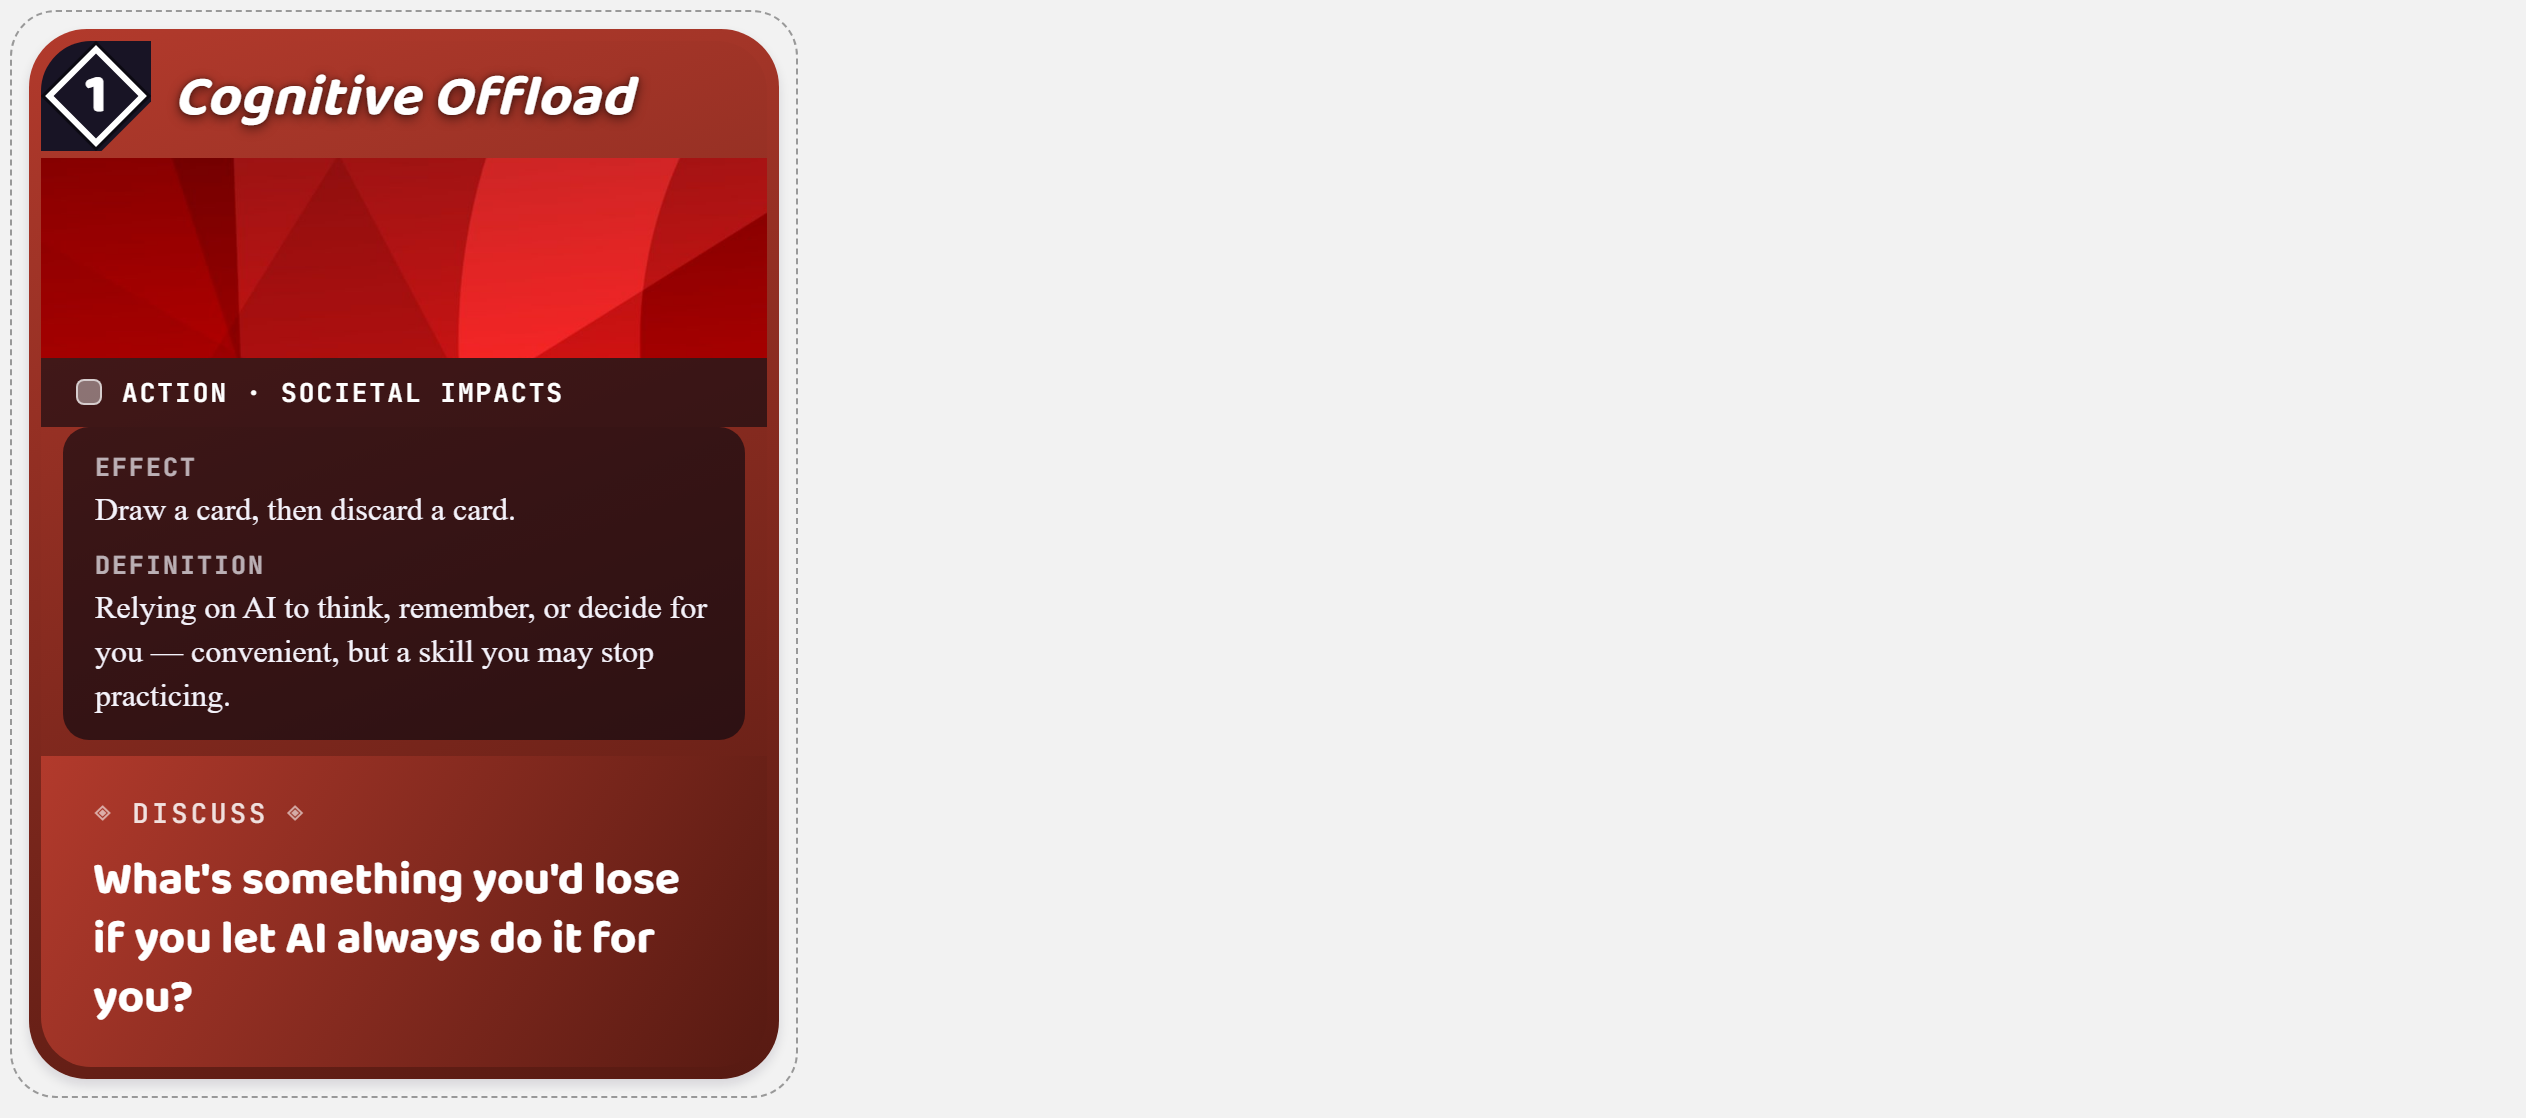
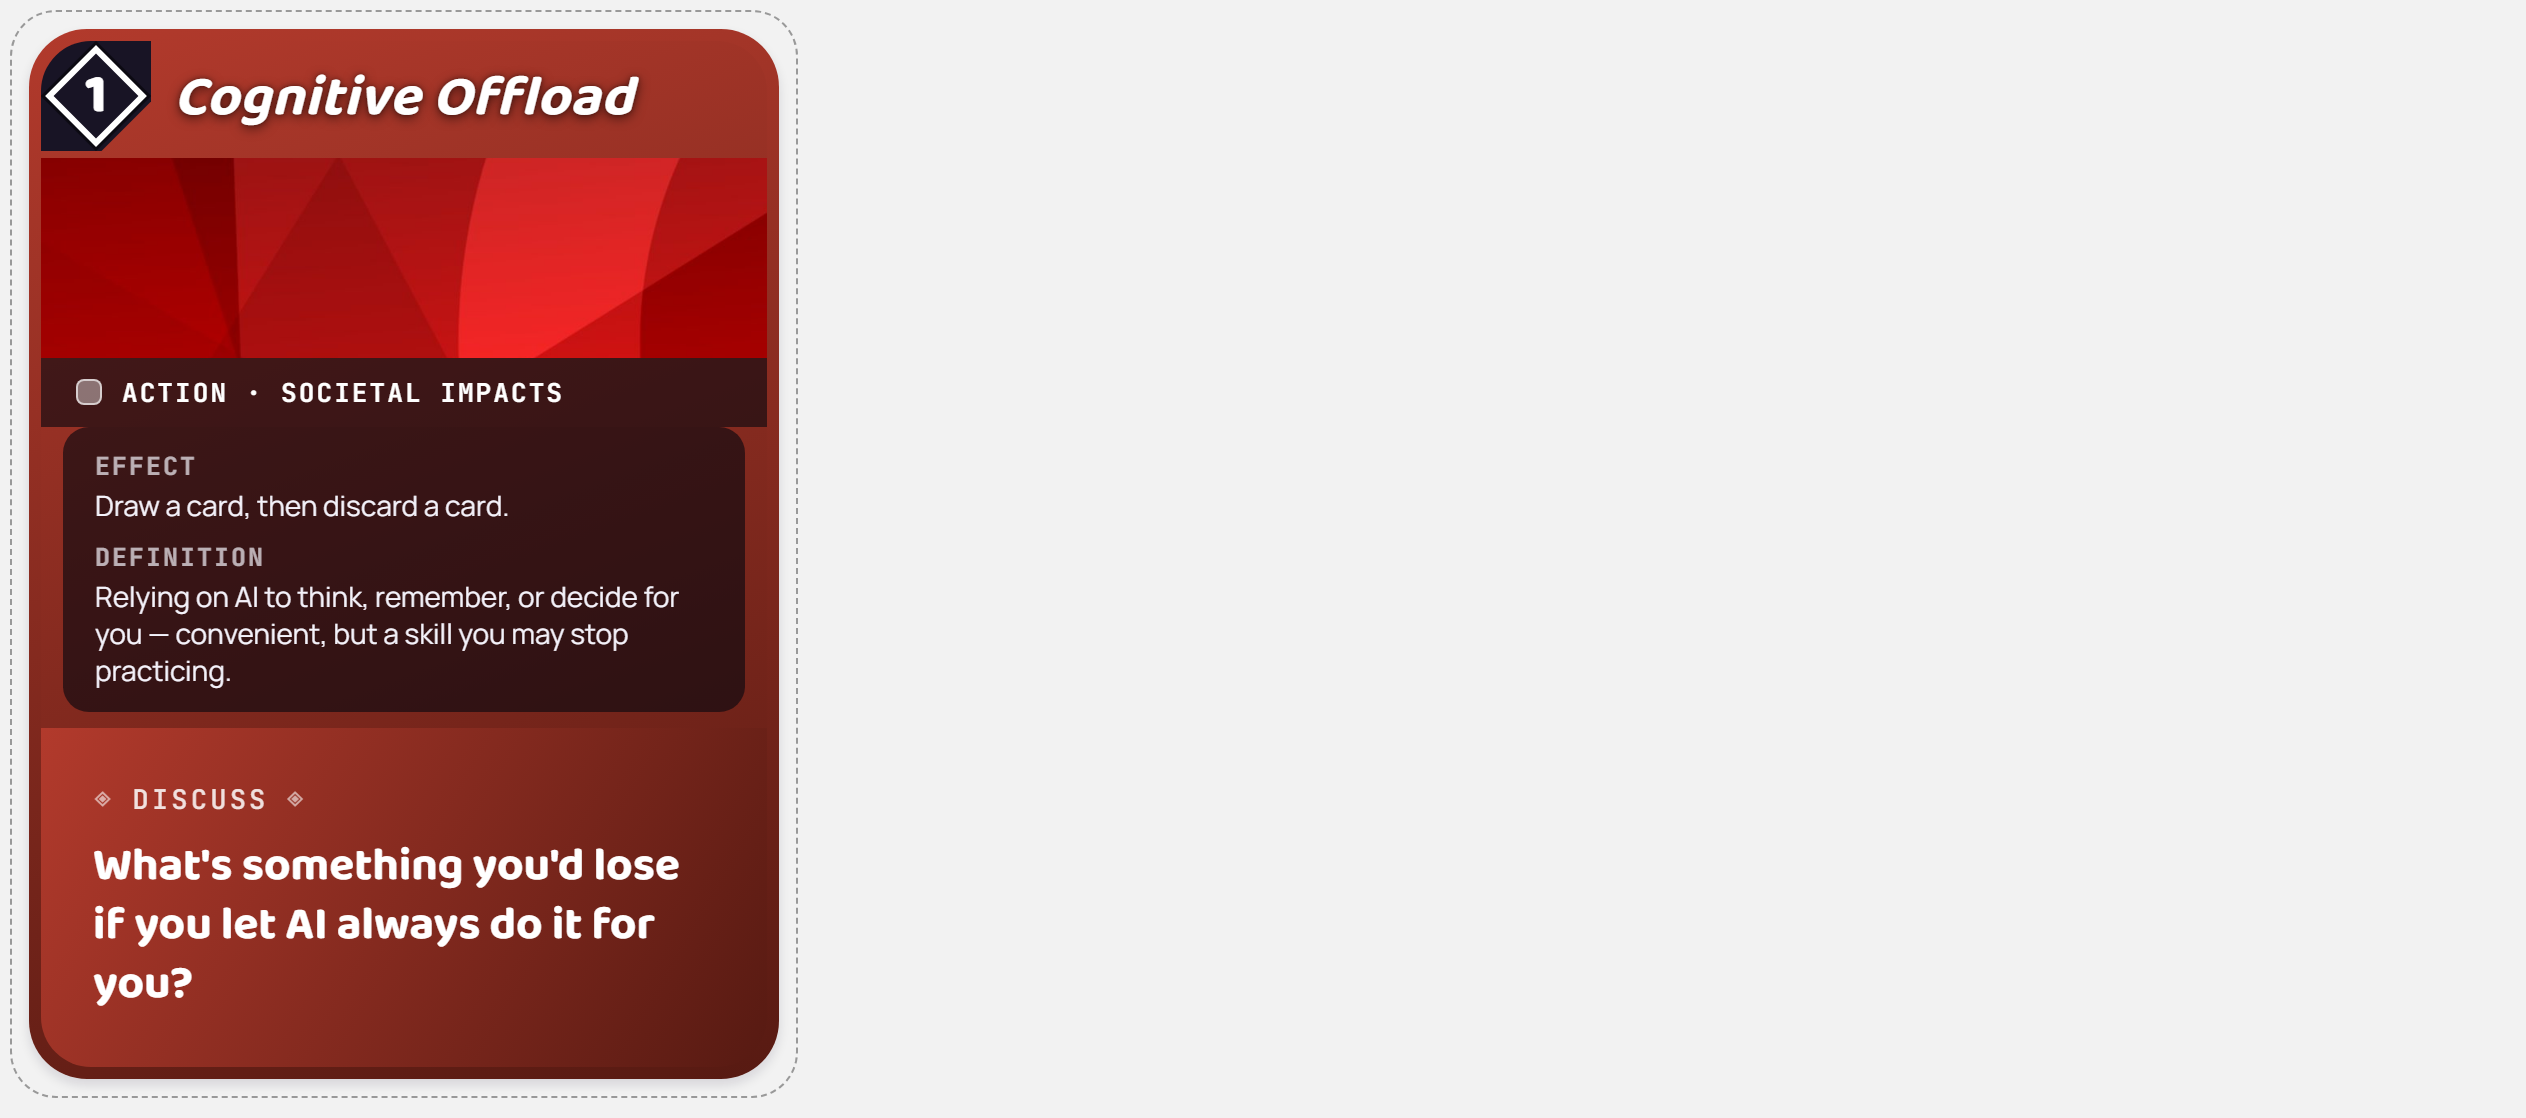
Set card body text to Manrope on print sheets and gallery
Card ability/definition text had been falling back to the browser's
default serif. Now Manrope at 28px (matching the old visual size), with
an extra fit step that shrinks body text on the few wordiest cards, and
a Discuss-box fit that measures the label and padding so questions no
longer clip. Re-rendered all 7 print pages and the sample card gallery.

Changed region(s): [[0.0, 0.3953, 0.3088, 0.9123]]

diff --git a/sample_cards/index.html b/sample_cards/index.html
@@ -27,6 +27,7 @@
 
   .card{
     position:relative; width:750px; aspect-ratio:5/7; border-radius:58px;
+    font-family:'Manrope',system-ui,sans-serif;
     padding:12px; box-shadow:0 6px 12px rgba(20,10,40,.12);
     display:flex; flex-direction:column;
   }
@@ -128,7 +129,7 @@
   /* text lines — a frosted panel floating on the art, not a solid strip */
   .textlines{ position:relative; z-index:2; flex:none; margin:0 22px 16px; padding:23px 32px; display:flex; flex-direction:column; gap:17px;
     border-radius:26px; background:rgba(10,8,16,.64); }
-  .tline{ font-size:32px; line-height:1.36; color:#f4f2fa; }
+  .tline{ font-size:28px; line-height:1.32; color:#f4f2fa; }
   .tline b{ font-family:'JetBrains Mono',monospace; font-size:25px; letter-spacing:.08em; text-transform:uppercase; color:rgba(244,242,250,.7); display:block; margin-bottom:4px; }
   .tline .kw{ font-family:'Baloo 2',sans-serif; font-weight:700; font-style:italic; color:#fff; }
 
@@ -159,8 +160,6 @@
   html{ background:var(--ground); }
   body{ margin:0; background:var(--ground); color:var(--text); font-family:'Manrope',system-ui,sans-serif; font-size:15px; line-height:1.5;
     padding-inline:clamp(16px,4vw,48px); padding-block:0 64px; }
-  /* card body copy renders in the browser serif, exactly as on the printed sheets */
-  .card{ font-family:'Times New Roman',Times,serif; }
   .wrap{ max-width:1320px; margin:0 auto; }
   header.top{ display:flex; flex-wrap:wrap; align-items:flex-end; justify-content:space-between; gap:12px 32px; padding-block:clamp(28px,5vw,56px) 20px; }
   .brand{ display:flex; flex-direction:column; gap:6px; min-width:0; }
@@ -316,7 +315,7 @@
       p.style.fontSize = size + 'px';
       var guard = 0;
       var buffer = 24; // safety margin — a bare "fits" measurement isn't enough insurance
-      while(p.scrollHeight + buffer > box.clientHeight && size > minSize && guard < 60){
+      while(discussNeeds(box) + 8 > box.clientHeight && size > minSize && guard < 60){
         size -= 0.5; p.style.fontSize = size + 'px'; guard++;
       }
     });
@@ -324,8 +323,40 @@
   // Run only after web fonts have actually finished loading — measuring
   // against a fallback font's metrics is what caused the Decision Tree
   // card's question to under-shrink and overflow past the card edge.
+  // When a card's question would have to shrink below a comfortable size,
+  // shrink its ability/definition text a little instead, just until it fits.
+  // Height the Discuss box's content needs: padding + "Discuss" tag + question.
+  function discussNeeds(box){
+    var cs = getComputedStyle(box), tag = box.querySelector('.tag'), p = box.querySelector('p');
+    var tagH = tag ? tag.offsetHeight + parseFloat(getComputedStyle(tag).marginBottom) : 0;
+    return parseFloat(cs.paddingTop) + parseFloat(cs.paddingBottom) + tagH + p.scrollHeight;
+  }
+  function questionSize(box){
+    var p = box.querySelector('p');
+    if(!p) return 46;
+    var size = 46, guard = 0;
+    p.style.fontSize = size + 'px';
+    while(discussNeeds(box) + 8 > box.clientHeight && size > 26 && guard < 60){
+      size -= 0.5; p.style.fontSize = size + 'px'; guard++;
+    }
+    return size;
+  }
+  function fitTextLines(){
+    document.querySelectorAll('.inner').forEach(function(inner){
+      var box = inner.querySelector('.discuss');
+      var lines = inner.querySelectorAll('.tline');
+      if(!box || !lines.length) return;
+      var size = 28, guard = 0;
+      lines.forEach(function(l){ l.style.fontSize = size + 'px'; });
+      while(questionSize(box) < 36 && size > 22 && guard < 30){
+        size -= 0.5; guard++;
+        lines.forEach(function(l){ l.style.fontSize = size + 'px'; });
+      }
+    });
+  }
   function fitAll(){
     fitNameText();       // must run first — its result changes namebar height
+    fitTextLines();      // then free up room for the Discuss box
     fitDiscussionText();
   }
   function runWhenFontsReady(){

diff --git a/design/print-sheet-source.html b/design/print-sheet-source.html
@@ -27,6 +27,7 @@
 
   .card{
     position:relative; width:750px; aspect-ratio:5/7; border-radius:58px;
+    font-family:'Manrope',system-ui,sans-serif;
     padding:12px; box-shadow:0 6px 12px rgba(20,10,40,.12);
     display:flex; flex-direction:column;
   }
@@ -128,7 +129,7 @@
   /* text lines — a frosted panel floating on the art, not a solid strip */
   .textlines{ position:relative; z-index:2; flex:none; margin:0 22px 16px; padding:23px 32px; display:flex; flex-direction:column; gap:17px;
     border-radius:26px; background:rgba(10,8,16,.64); }
-  .tline{ font-size:32px; line-height:1.36; color:#f4f2fa; }
+  .tline{ font-size:28px; line-height:1.32; color:#f4f2fa; }
   .tline b{ font-family:'JetBrains Mono',monospace; font-size:25px; letter-spacing:.08em; text-transform:uppercase; color:rgba(244,242,250,.7); display:block; margin-bottom:4px; }
   .tline .kw{ font-family:'Baloo 2',sans-serif; font-weight:700; font-style:italic; color:#fff; }
 
@@ -1020,7 +1021,7 @@
       p.style.fontSize = size + 'px';
       var guard = 0;
       var buffer = 24; // safety margin — a bare "fits" measurement isn't enough insurance
-      while(p.scrollHeight + buffer > box.clientHeight && size > minSize && guard < 60){
+      while(discussNeeds(box) + 8 > box.clientHeight && size > minSize && guard < 60){
         size -= 0.5; p.style.fontSize = size + 'px'; guard++;
       }
     });
@@ -1028,8 +1029,40 @@
   // Run only after web fonts have actually finished loading — measuring
   // against a fallback font's metrics is what caused the Decision Tree
   // card's question to under-shrink and overflow past the card edge.
+  // When a card's question would have to shrink below a comfortable size,
+  // shrink its ability/definition text a little instead, just until it fits.
+  // Height the Discuss box's content needs: padding + "Discuss" tag + question.
+  function discussNeeds(box){
+    var cs = getComputedStyle(box), tag = box.querySelector('.tag'), p = box.querySelector('p');
+    var tagH = tag ? tag.offsetHeight + parseFloat(getComputedStyle(tag).marginBottom) : 0;
+    return parseFloat(cs.paddingTop) + parseFloat(cs.paddingBottom) + tagH + p.scrollHeight;
+  }
+  function questionSize(box){
+    var p = box.querySelector('p');
+    if(!p) return 46;
+    var size = 46, guard = 0;
+    p.style.fontSize = size + 'px';
+    while(discussNeeds(box) + 8 > box.clientHeight && size > 26 && guard < 60){
+      size -= 0.5; p.style.fontSize = size + 'px'; guard++;
+    }
+    return size;
+  }
+  function fitTextLines(){
+    document.querySelectorAll('.inner').forEach(function(inner){
+      var box = inner.querySelector('.discuss');
+      var lines = inner.querySelectorAll('.tline');
+      if(!box || !lines.length) return;
+      var size = 28, guard = 0;
+      lines.forEach(function(l){ l.style.fontSize = size + 'px'; });
+      while(questionSize(box) < 36 && size > 22 && guard < 30){
+        size -= 0.5; guard++;
+        lines.forEach(function(l){ l.style.fontSize = size + 'px'; });
+      }
+    });
+  }
   function fitAll(){
     fitNameText();       // must run first — its result changes namebar height
+    fitTextLines();      // then free up room for the Discuss box
     fitDiscussionText();
   }
   function runWhenFontsReady(){
